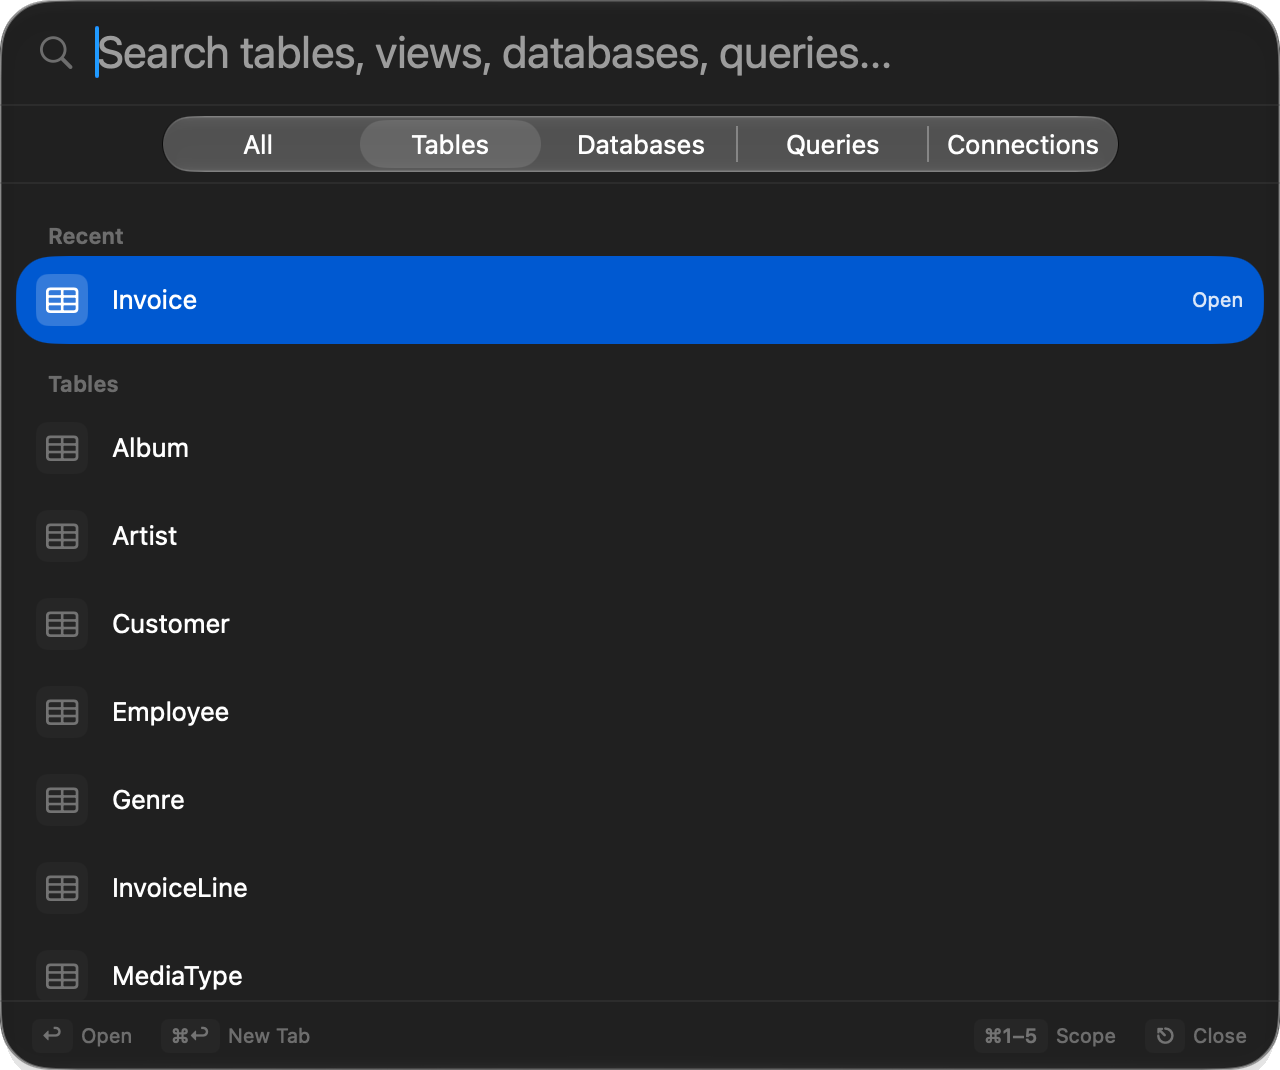
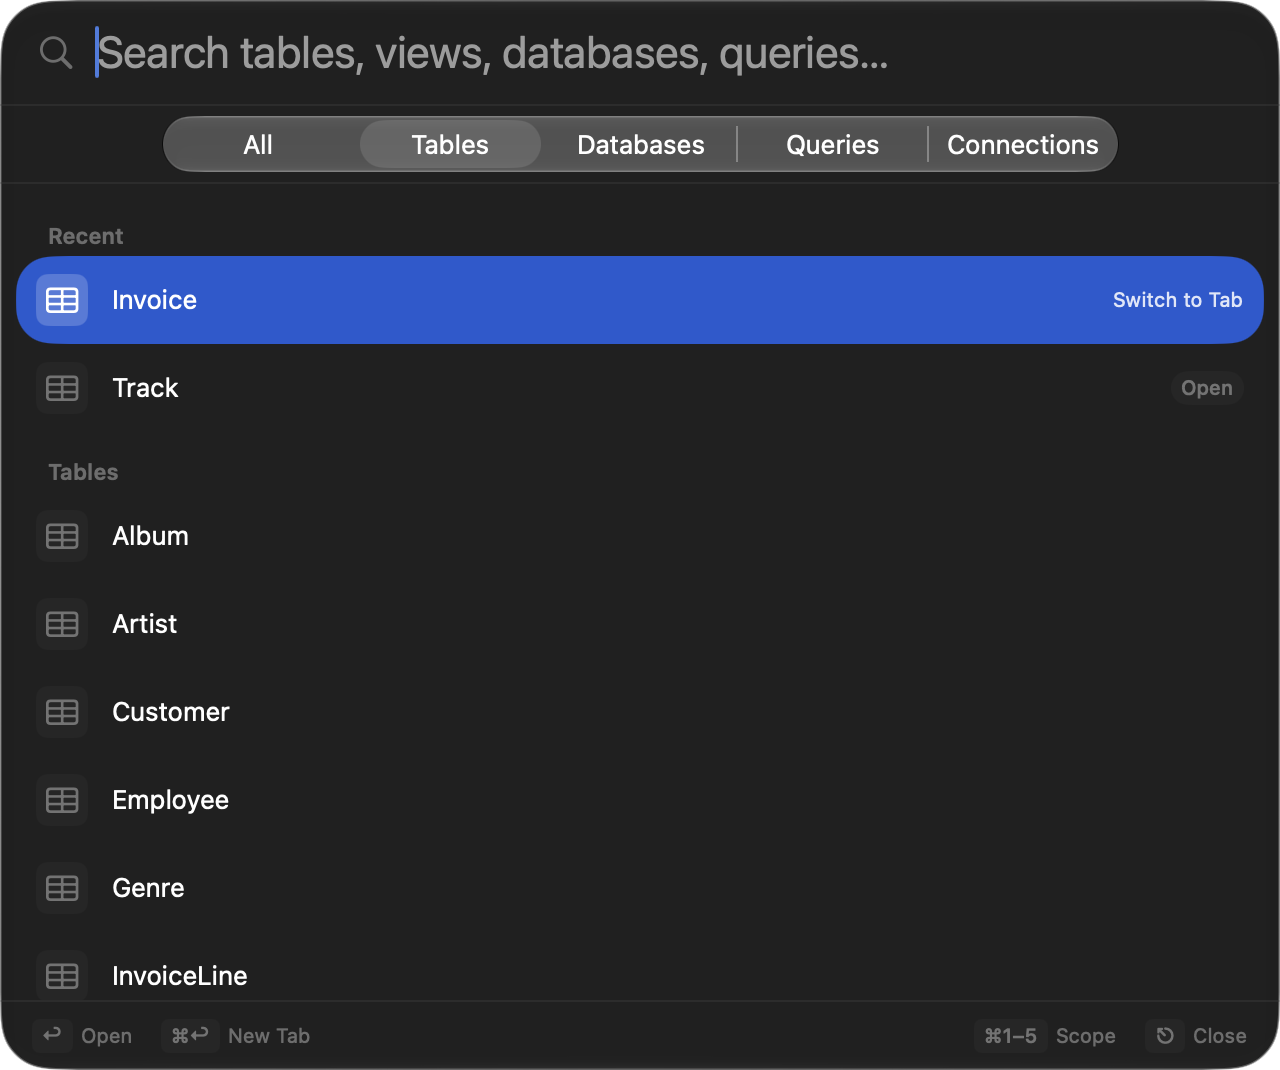
fix(hig): clip the Open Quickly glass to its own rounded shape

diff --git a/TableProTests/Views/QuickSwitcherPanelControllerTests.swift b/TableProTests/Views/QuickSwitcherPanelControllerTests.swift
@@ -39,7 +39,10 @@ struct QuickSwitcherPanelControllerTests {
     @Test("panel resolves a non-zero frame from its content before showing")
     func panelResolvesNonZeroFrame() {
         let hostingController = NSHostingController(rootView: Text(verbatim: "content"))
-        let panel = QuickSwitcherPanel(hostingController: hostingController)
+        let panel = QuickSwitcherPanel(
+            hostingController: hostingController,
+            surfaceCornerRadius: QuickSwitcherMetrics.cornerRadius
+        )
         #expect(panel.frame.width > 0)
         #expect(panel.frame.height > 0)
         panel.close()
@@ -55,7 +58,10 @@ struct QuickSwitcherPanelControllerTests {
         let hostingController = NSHostingController(
             rootView: QuickSwitcherPanelContent(viewModel: viewModel) { _, _ in }
         )
-        let panel = QuickSwitcherPanel(hostingController: hostingController)
+        let panel = QuickSwitcherPanel(
+            hostingController: hostingController,
+            surfaceCornerRadius: QuickSwitcherMetrics.cornerRadius
+        )
         #expect(panel.frame.width >= 600, "the panel keeps its declared width")
         #expect(panel.frame.height > 100, "input row, scope chips and footer all have height")
         #expect(panel.frame.height < 900, "an unbounded height would mean the list grew without limit")
@@ -73,7 +79,10 @@ struct QuickSwitcherPanelControllerTests {
 
     @Test("panel can become key but not main")
     func panelKeyAndMainBehavior() {
-        let panel = QuickSwitcherPanel(hostingController: NSHostingController(rootView: Text(verbatim: "content")))
+        let panel = QuickSwitcherPanel(
+            hostingController: NSHostingController(rootView: Text(verbatim: "content")),
+            surfaceCornerRadius: QuickSwitcherMetrics.cornerRadius
+        )
         #expect(panel.canBecomeKey)
         #expect(panel.canBecomeMain == false)
         panel.close()
@@ -81,7 +90,10 @@ struct QuickSwitcherPanelControllerTests {
 
     @Test("resigning key closes the panel")
     func resignKeyClosesPanel() {
-        let panel = QuickSwitcherPanel(hostingController: NSHostingController(rootView: Text(verbatim: "content")))
+        let panel = QuickSwitcherPanel(
+            hostingController: NSHostingController(rootView: Text(verbatim: "content")),
+            surfaceCornerRadius: QuickSwitcherMetrics.cornerRadius
+        )
         panel.makeKeyAndOrderFront(nil)
         #expect(panel.isVisible)
         panel.resignKey()
@@ -90,7 +102,10 @@ struct QuickSwitcherPanelControllerTests {
 
     @Test("escape closes the panel")
     func escapeClosesPanel() {
-        let panel = QuickSwitcherPanel(hostingController: NSHostingController(rootView: Text(verbatim: "content")))
+        let panel = QuickSwitcherPanel(
+            hostingController: NSHostingController(rootView: Text(verbatim: "content")),
+            surfaceCornerRadius: QuickSwitcherMetrics.cornerRadius
+        )
         panel.makeKeyAndOrderFront(nil)
         #expect(panel.isVisible)
         panel.cancelOperation(nil)
@@ -99,20 +114,36 @@ struct QuickSwitcherPanelControllerTests {
 
     @Test("panel uses a nonactivating borderless style mask")
     func panelStyleMask() {
-        let panel = QuickSwitcherPanel(hostingController: NSHostingController(rootView: Text(verbatim: "content")))
+        let panel = QuickSwitcherPanel(
+            hostingController: NSHostingController(rootView: Text(verbatim: "content")),
+            surfaceCornerRadius: QuickSwitcherMetrics.cornerRadius
+        )
         #expect(panel.styleMask.contains(.nonactivatingPanel))
         #expect(panel.styleMask.contains(.borderless))
         panel.close()
     }
 
-    @Test("panel shadow follows the rounded content surface")
-    func panelShadowMask() throws {
-        let panel = QuickSwitcherPanel(hostingController: NSHostingController(rootView: Text(verbatim: "content")))
-        let contentLayer = try #require(panel.contentView?.layer)
+    /// The radius asserted here is the one the panel was handed, not the metric the panel could
+    /// read for itself, so the test fails if the mask ever stops following the shape its content
+    /// draws. Asserting it against `QuickSwitcherMetrics.cornerRadius` would pass for any radius,
+    /// including one the surface no longer uses.
+    @Test("panel masks its content to the surface shape it was given")
+    func panelMasksContentToSurfaceShape() throws {
+        let surfaceCornerRadius: CGFloat = 19
+        let panel = QuickSwitcherPanel(
+            hostingController: NSHostingController(rootView: Text(verbatim: "content")),
+            surfaceCornerRadius: surfaceCornerRadius
+        )
+        let contentView = try #require(panel.contentViewController?.view)
         #expect(panel.hasShadow)
-        #expect(contentLayer.cornerRadius == QuickSwitcherMetrics.cornerRadius)
-        #expect(contentLayer.cornerCurve == .continuous)
-        #expect(contentLayer.masksToBounds)
+        if #available(macOS 26.0, *) {
+            let contentLayer = try #require(contentView.layer)
+            #expect(contentLayer.cornerRadius == surfaceCornerRadius)
+            #expect(contentLayer.cornerCurve == .continuous)
+            #expect(contentLayer.masksToBounds)
+        } else {
+            #expect(contentView.layer?.masksToBounds != true, "the surface clips itself below macOS 26")
+        }
         panel.close()
     }
 }

diff --git a/TablePro/Views/QuickSwitcher/QuickSwitcherPanel.swift b/TablePro/Views/QuickSwitcher/QuickSwitcherPanel.swift
@@ -9,7 +9,7 @@ import SwiftUI
 private let fallbackScreenFrame = NSRect(x: 0, y: 0, width: 1_280, height: 800)
 
 internal final class QuickSwitcherPanel: NSPanel {
-    init<Content: View>(hostingController: NSHostingController<Content>) {
+    init<Content: View>(hostingController: NSHostingController<Content>, surfaceCornerRadius: CGFloat) {
         hostingController.sizingOptions = []
         let proposal = NSScreen.main?.visibleFrame.size ?? fallbackScreenFrame.size
         let contentSize = hostingController.sizeThatFits(in: proposal)
@@ -35,15 +35,25 @@ internal final class QuickSwitcherPanel: NSPanel {
         animationBehavior = .utilityWindow
         contentViewController = hostingController
         setContentSize(contentSize)
+        maskContentToSurfaceShape(cornerRadius: surfaceCornerRadius)
+    }
 
-        // WindowServer derives a transparent window's shadow from its root view. SwiftUI's glass
-        // shape does not update that root mask, so an otherwise rounded panel gets a thin outline
-        // around its rectangular window bounds. Match the hosting layer to the visible surface so
-        // the native shadow follows the same continuous corners.
-        hostingController.view.wantsLayer = true
-        hostingController.view.layer?.cornerRadius = QuickSwitcherMetrics.cornerRadius
-        hostingController.view.layer?.cornerCurve = .continuous
-        hostingController.view.layer?.masksToBounds = true
+    /// Liquid Glass paints a faint wash across the hosting view's whole bounds, outside the shape
+    /// handed to `glassEffect`, and SwiftUI cannot reach it: the glass backdrop is a layer beneath
+    /// the SwiftUI render tree, so a `clipShape` over the surface leaves the wash exactly as it is.
+    /// Measured on macOS 27 by capturing the panel window without its shadow: the corners outside
+    /// the rounded surface carry alpha 5 to 11 unmasked and 0 masked, a `clipShape` on the surface
+    /// changes nothing, and removing the `GlassEffectContainer` changes nothing either. That wash
+    /// over the square window bounds is the outline this masks away. Below macOS 26 the surface
+    /// clips itself and its corners already measure 0, so the mask would buy nothing there and only
+    /// cost the offscreen pass that rounding a layer with sublayers forces.
+    private func maskContentToSurfaceShape(cornerRadius: CGFloat) {
+        guard #available(macOS 26.0, *), let contentView = contentViewController?.view else { return }
+        contentView.wantsLayer = true
+        guard let layer = contentView.layer else { return }
+        layer.cornerRadius = cornerRadius
+        layer.cornerCurve = .continuous
+        layer.masksToBounds = true
     }
 
     override var canBecomeKey: Bool { true }
@@ -83,7 +93,10 @@ internal final class QuickSwitcherPanelController: NSObject, NSWindowDelegate {
         }
         let hostingController = NSHostingController(rootView: sizeReportingContent)
 
-        let panel = QuickSwitcherPanel(hostingController: hostingController)
+        let panel = QuickSwitcherPanel(
+            hostingController: hostingController,
+            surfaceCornerRadius: QuickSwitcherMetrics.cornerRadius
+        )
         panel.delegate = self
         self.panel = panel
 

diff --git a/CHANGELOG.md b/CHANGELOG.md
@@ -76,7 +76,7 @@ and this project adheres to [Semantic Versioning](https://semver.org/spec/v2.0.0
 
 ### Fixed
 
-- Open Quickly no longer shows a faint rectangular outline outside its rounded Liquid Glass surface. Its native drop shadow now follows the panel's continuous corners. (#2321)
+- Open Quickly no longer shows a faint rectangular outline around its rounded Liquid Glass surface on macOS 26 and later. The glass was tinting the panel's square window bounds outside its own corners. The panel keeps its drop shadow, and macOS 14 and 15 are unchanged. (#2321)
 - Skip and Continue no longer gives up on the first unreadable line of a JSON file. A line the parser cannot read is recorded against its line number like any other failed row, and the rest of the file still imports. The stop modes still stop, as they should.
 - An import no longer reports rows as imported when nothing was written for them. A row carrying values that matched no mapped column used to be dropped in silence and still counted, so the summary claimed more rows than reached the database. Skip and Continue now names it, and the stop modes stop.
 - Retrying an import of a compressed .sql file no longer leaves the expanded copy behind in the temporary folder each time.
